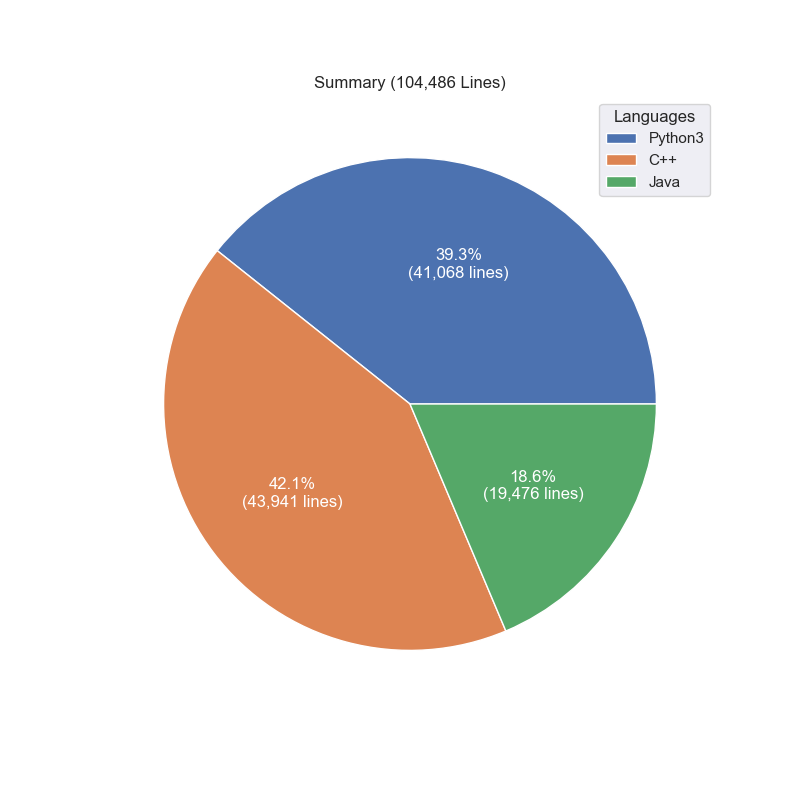
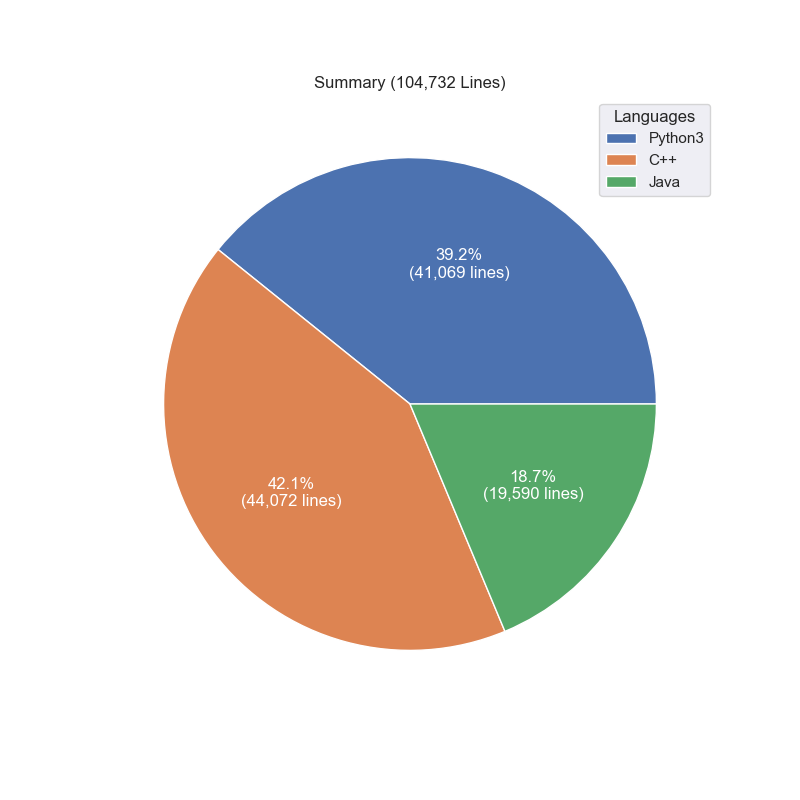
update

diff --git a/Java/1520-Maximum-Number-of-Non-Overlapping-Substrings/soln.java b/Java/1520-Maximum-Number-of-Non-Overlapping-Substrings/soln.java
@@ -1,0 +1,51 @@
+class Solution {
+    public List<String> maxNumOfSubstrings(String s) {
+        int [] left = new int [26];
+        Arrays.fill(left, -1);
+        int [] right = new int [26];
+        for(int i = 0; i < s.length(); ++i) {
+            int idx = s.charAt(i) - 'a';
+            if(left[idx] == -1) left[idx] = i;
+            right[idx] = i;
+        }
+        ArrayList<int []> intervals = new ArrayList<>();
+        for(int i = 0; i < 26; ++i) {
+            if(left[i] != -1) {
+                int lo = left[i];
+                int hi = right[i];
+                for(int j = left[i]; j <= right[i]; ++j) {
+                    int idx = s.charAt(j) - 'a';
+                    lo = Math.min(lo, left[idx]);
+                    hi = Math.max(hi, right[idx]);
+                }
+                int l = left[i], r = right[i];
+                while(l > lo || r < hi) {
+                    if(l > lo) {
+                        int idx = s.charAt(l--) - 'a';
+                        lo = Math.min(lo, left[idx]);
+                        hi = Math.max(hi, right[idx]);
+                    }
+                    if(r < hi) {
+                        int idx = s.charAt(r++) - 'a';
+                        lo = Math.min(lo, left[idx]);
+                        hi = Math.max(hi, right[idx]);
+                    }
+                }
+                intervals.add(new int [] {lo, hi});
+            }
+        }
+        Collections.sort(intervals, (a, b) -> (
+            a[1] == b[1] ? (a[1] - a[0]) - (b[1] - b[0]) : a[1] - b[1]
+        ));
+        int lo = -1;
+        List<String> ans = new ArrayList<>();
+        for(int [] interval : intervals) {
+            int a = interval[0], b = interval[1];
+            if(a > lo) {
+                ans.add(s.substring(a, b + 1));
+                lo = b;
+            }
+        }
+        return ans;
+    }
+}

diff --git a/C++/1520-Maximum-Number-of-Non-Overlapping-Substrings/soln.cpp b/C++/1520-Maximum-Number-of-Non-Overlapping-Substrings/soln.cpp
@@ -1,0 +1,51 @@
+class Solution {
+public:
+    vector<string> maxNumOfSubstrings(string s) {
+        vector<int> left(26, -1), right(26, -1);
+        for(int i = 0; i < s.length(); ++i) {
+            int idx = s[i] - 'a';
+            if(left[idx] == -1) left[idx] = i;
+            right[idx] = i;
+        }
+        vector<pair<int, int>> cands;
+        for(int i = 0; i < 26; ++i) {
+            if(left[i] != -1) {
+                int lo = left[i];
+                int hi = right[i];
+                for(int j = left[i]; j <= right[i]; ++j) {
+                    int idx = s[j] - 'a';
+                    lo = min(lo, left[idx]);
+                    hi = max(hi, right[idx]);
+                }
+                int l = left[i], r = right[i];
+                while(l > lo || r < hi) {
+                    if(l > lo) {
+                        int idx = s[l] - 'a';
+                        lo = min(lo, left[idx]);
+                        hi = max(hi, right[idx]);
+                        --l;
+                    }
+                    if(r < hi) {
+                        int idx = s[r] - 'a';
+                        lo = min(lo, left[idx]);
+                        hi = max(hi, right[idx]);
+                        ++r;
+                    }
+                }
+                cands.emplace_back(lo, hi);
+            }
+        }
+        int lo = -1;
+        sort(cands.begin(), cands.end(), [](const pair<int, int> & a, const pair<int, int> & b) {
+            return a.second == b.second ? a.second - a.first < b.second - b.first : a.second < b.second;
+        });
+        vector<string> ans;
+        for(const auto & [a, b] : cands) {
+            if(lo < a) {
+                lo = b;
+                ans.push_back(s.substr(a, b - a + 1));
+            }
+        }
+        return ans;
+    }
+};

diff --git a/Java/1519-Number-of-Nodes-in-the-Sub-Tree-with-the-Same-Label/soln.java b/Java/1519-Number-of-Nodes-in-the-Sub-Tree-with-the-Same-Label/soln.java
@@ -1,0 +1,29 @@
+class Solution {
+    public int[] countSubTrees(int n, int[][] edges, String labels) {
+        ArrayList<Integer> [] tree = new ArrayList[n];
+        for(int i = 0; i < n; ++i) {
+            tree[i] = new ArrayList<>();
+        }
+        for(int [] edge : edges) {
+            int u = edge[0], v = edge[1];
+            tree[u].add(v);
+            tree[v].add(u);
+        }
+        int [] ans = new int [n];
+        Postorder(0, -1, tree, labels, ans);
+        return ans;
+    }
+    
+    private int [] Postorder(int node, int parent, ArrayList<Integer>[] tree, String labels, int [] ans) {
+        int [] counter = new int [26];
+        for(int nei : tree[node]) {
+            if(nei == parent) continue;
+            int [] temp = Postorder(nei, node, tree, labels, ans);
+            for(int i = 0; i < 26; ++i) {
+                counter[i] += temp[i];
+            }
+        }
+        ans[node] = ++counter[labels.charAt(node) - 'a'];
+        return counter;
+    }
+}

diff --git a/C++/1519-Number-of-Nodes-in-the-Sub-Tree-with-the-Same-Label/soln.cpp b/C++/1519-Number-of-Nodes-in-the-Sub-Tree-with-the-Same-Label/soln.cpp
@@ -1,0 +1,28 @@
+class Solution {
+public:
+    vector<int> countSubTrees(int n, vector<vector<int>>& edges, string labels) {
+        vector<vector<int>> tree(n);
+        for(const auto & e : edges) {
+            int u = e[0], v = e[1];
+            tree[u].push_back(v);
+            tree[v].push_back(u);
+        }
+        vector<int> ans(n, 1);
+        Postorder(0, -1, labels, tree, & ans);
+        return ans;
+    }
+    
+    vector<int> Postorder(int node, int parent, const string & labels, 
+                          const vector<vector<int>> & tree, vector<int> * ans) {
+        vector<int> counter(26, 0);
+        for(int nei : tree[node]) {
+            if(nei == parent) continue;
+            vector<int> temp = Postorder(nei, node, labels, tree, ans);
+            for(int i = 0; i < 26; ++i) {
+                counter[i] += temp[i];
+            }
+        }
+        ans->at(node) = ++counter[labels[node] - 'a'];
+        return counter;
+    }
+};

diff --git a/Java/1521-Find-a-Value-of-a-Mysterious-Function-Closest-to-Target/soln.java b/Java/1521-Find-a-Value-of-a-Mysterious-Function-Closest-to-Target/soln.java
@@ -1,0 +1,18 @@
+class Solution {
+    public int closestToTarget(int[] arr, int target) {
+        HashSet<Integer> s = new HashSet<>();
+        int best = 1000000000;
+        for(int num : arr) {
+            HashSet<Integer> ns =  new HashSet<>();
+            ns.add(num);
+            for(int val : s) {
+                ns.add(val & num);
+            }
+            for(int val : ns) {
+                best = Math.min(best, Math.abs(target - val));
+            }
+            s = ns;
+        }
+        return best;
+    }
+}

diff --git a/C++/1521-Find-a-Value-of-a-Mysterious-Function-Closest-to-Target/soln-1.cpp b/C++/1521-Find-a-Value-of-a-Mysterious-Function-Closest-to-Target/soln-1.cpp
@@ -1,0 +1,18 @@
+class Solution {
+public:
+    int closestToTarget(vector<int>& arr, int target) {
+        unordered_set<int> s;
+        int best = 1e9;
+        for(int num : arr) {
+            unordered_set<int> ns = {num};
+            for(int val : s) {
+                ns.insert(val & num);
+            }
+            for(int val : ns) {
+                best = min(best, abs(val - target));
+            }
+            swap(s, ns);
+        }
+        return best;
+    }
+};

diff --git a/C++/1521-Find-a-Value-of-a-Mysterious-Function-Closest-to-Target/soln.cpp b/C++/1521-Find-a-Value-of-a-Mysterious-Function-Closest-to-Target/soln.cpp
@@ -1,0 +1,18 @@
+class Solution {
+public:
+    int closestToTarget(vector<int>& arr, int target) {
+        set<int> s;
+        int best = 1e9;
+        for(int num : arr) {
+            set<int> ns = {num};
+            for(int val : s) {
+                ns.insert(val & num);
+            }
+            for(int val : ns) {
+                best = min(best, abs(val - target));
+            }
+            swap(s, ns);
+        }
+        return best;
+    }
+};

diff --git a/C++/1518-Water-Bottles/soln.cpp b/C++/1518-Water-Bottles/soln.cpp
@@ -1,0 +1,17 @@
+class Solution {
+public:
+    int numWaterBottles(int nfulls, int exchange) {
+        int nempties = 0;
+        int ndrinks = 0;
+        while(nfulls > 0) {
+            nempties += nfulls;
+            ndrinks += nfulls;
+            nfulls = 0;
+            if(nempties >= exchange) {
+                nfulls += nempties / exchange;
+                nempties %= exchange;
+            }
+        }
+        return ndrinks;
+    }
+};

diff --git a/Java/1518-Water-Bottles/soln.java b/Java/1518-Water-Bottles/soln.java
@@ -1,0 +1,16 @@
+class Solution {
+    public int numWaterBottles(int nfulls, int exchange) {
+        int nempties = 0;
+        int ndrinks = 0;
+        while(nfulls > 0) {
+            ndrinks += nfulls;
+            nempties += nfulls;
+            nfulls = 0;
+            if(nempties >= exchange) {
+                nfulls += nempties / exchange;
+                nempties %= exchange;
+            }
+        }
+        return ndrinks;
+    }
+}
